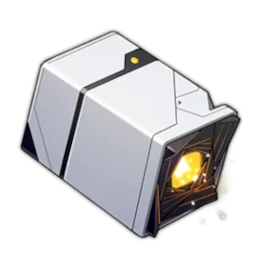
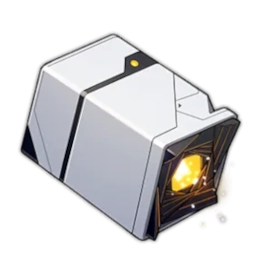
feat: style

Changed region(s): [[0.0625, 0.0938, 0.9375, 0.9688], [0.4688, 0.4688, 0.5625, 0.5312], [0.375, 0.4062, 0.4688, 0.4688]]

diff --git a/src/lib/characterPreview/scoring/substatRollsAggregator.ts b/src/lib/characterPreview/scoring/substatRollsAggregator.ts
@@ -1,6 +1,10 @@
-import { type SubStats } from 'lib/constants/constants'
+import { Stats, type SubStats } from 'lib/constants/constants'
 import { countRelicRolls } from 'lib/characterPreview/summary/statScoringSummaryController'
 import type { PreviewRelics } from 'lib/characterPreview/characterPreviewController'
+
+const DISPLAY_COUNT = 6
+const FALLBACK_STATS: SubStats[] = [Stats.SPD, Stats.CR, Stats.CD, Stats.ATK_P, Stats.HP_P, Stats.DEF_P]
+const FLAT_STATS = new Set<SubStats>([Stats.ATK, Stats.HP, Stats.DEF])
 
 export type AggregatedStatRolls = {
   stat: SubStats
@@ -10,6 +14,13 @@ export type AggregatedStatRolls = {
   total: number
   effective: number
   weight: number
+}
+
+function buildEntry(stat: SubStats, rollMap: Map<SubStats, { high: number; mid: number; low: number }>, weight: number): AggregatedStatRolls {
+  const rolls = rollMap.get(stat) ?? { high: 0, mid: 0, low: 0 }
+  const total = rolls.high + rolls.mid + rolls.low
+  const effective = rolls.high * 1.0 + rolls.mid * 0.9 + rolls.low * 0.8
+  return { stat, ...rolls, total, effective, weight }
 }
 
 export function aggregateSubstatRolls(
@@ -32,15 +43,42 @@ export function aggregateSubstatRolls(
     }
   }
 
+  // Pool 1: mandatory — all stats with positive weight
+  const selected = new Set<SubStats>()
   const results: AggregatedStatRolls[] = []
+
   for (const [stat, weight] of Object.entries(weights)) {
     if (weight <= 0) continue
-    const rolls = rollMap.get(stat as SubStats) ?? { high: 0, mid: 0, low: 0 }
-    const total = rolls.high + rolls.mid + rolls.low
-    const effective = rolls.high * 1.0 + rolls.mid * 0.9 + rolls.low * 0.8
-    results.push({ stat: stat as SubStats, ...rolls, total, effective, weight })
+    selected.add(stat as SubStats)
+    results.push(buildEntry(stat as SubStats, rollMap, weight))
   }
 
-  results.sort((a, b) => b.weight - a.weight || b.effective - a.effective)
-  return results.slice(0, 6)
+  // Pool 2: stats with actual rolls not already in Pool 1
+  if (results.length < DISPLAY_COUNT) {
+    const pool2: AggregatedStatRolls[] = []
+    for (const stat of rollMap.keys()) {
+      if (selected.has(stat)) continue
+      const entry = buildEntry(stat, rollMap, 0)
+      if (entry.total > 0) pool2.push(entry)
+    }
+    pool2.sort((a, b) => b.effective - a.effective)
+    for (const entry of pool2) {
+      if (results.length >= DISPLAY_COUNT) break
+      selected.add(entry.stat)
+      results.push(entry)
+    }
+  }
+
+  // Pool 3: fallback universal stats
+  if (results.length < DISPLAY_COUNT) {
+    for (const stat of FALLBACK_STATS) {
+      if (results.length >= DISPLAY_COUNT) break
+      if (selected.has(stat)) continue
+      selected.add(stat)
+      results.push(buildEntry(stat, rollMap, 0))
+    }
+  }
+
+  results.sort((a, b) => b.effective - a.effective || Number(FLAT_STATS.has(a.stat)) - Number(FLAT_STATS.has(b.stat)))
+  return results.slice(0, DISPLAY_COUNT)
 }

diff --git a/src/lib/characterPreview/scoring/ShowcaseSubstatRolls.tsx b/src/lib/characterPreview/scoring/ShowcaseSubstatRolls.tsx
@@ -67,7 +67,7 @@ const COLOR_ALGORITHMS: Record<string, (seedColor: string) => TierColors> = {
     return {
       high: chroma.oklch(0.67, s * 0.75, hue).css(),
       mid: chroma.oklch(0.78, s * 0.38, hue).css(),
-      low: chroma.oklch(0.93, 0.005, hue).css(),
+      low: chroma.oklch(0.95, 0.005, hue).css(),
     }
   },
   // Ghost — barely there, very subtle tinting
@@ -157,7 +157,7 @@ type VizProps = { entry: AggregatedStatRolls; colors: TierColors; scale: number 
 
 function getScale(maxRolls: number): number {
   const cap = Math.max(Math.min(Math.floor(maxRolls / 3) * 3 + 6, 36), 18)
-  return 216 / cap
+  return (219 - cap) / cap
 }
 
 function EmptyGhost() {
@@ -174,11 +174,7 @@ function TierSegments({ count, color, segWidth }: { count: number; color: string
         <div
           key={i}
           className={classes.tierSeg}
-          style={{
-            width: segWidth,
-            backgroundColor: color,
-            borderRight: i < count - 1 ? SEGMENT_BORDER : 'none',
-          }}
+          style={{ width: segWidth, backgroundColor: color }}
         />
       ))}
     </div>
@@ -265,11 +261,7 @@ function StripeGroup({ count, color, segWidth }: { count: number; color: string;
         <div
           key={i}
           className={classes.stripeSegment}
-          style={{
-            width: segWidth,
-            backgroundColor: color,
-            borderRight: i < count - 1 ? SEGMENT_BORDER : 'none',
-          }}
+          style={{ width: segWidth, backgroundColor: color }}
         />
       ))}
     </div>
@@ -292,7 +284,6 @@ function StripeViz({ entry, colors, scale }: VizProps) {
 
 // ─── Mode definitions ────────────────────────────────────────
 
-const SEGMENT_BORDER = '1px solid rgba(0,0,0,0.50)'
 
 const VIZ_CONFIG: Record<string, { component: React.ComponentType<VizProps> }> = {
   s1: { component: TiersViz },

diff --git a/src/lib/characterPreview/scoring/ShowcaseSubstatRolls.module.css b/src/lib/characterPreview/scoring/ShowcaseSubstatRolls.module.css
@@ -95,7 +95,7 @@
 
 .bar4 { height: 4px; border-radius: 2px; }
 
-.tierGroup { display: flex; height: 4px; }
+.tierGroup { display: flex; gap: 1px; height: 4px; }
 .tierSeg { height: 4px; }
 
 .track > .tierGroup:first-child > .tierSeg:first-child { border-radius: 2px 0 0 2px; }
@@ -139,7 +139,7 @@
   overflow: hidden;
 }
 
-.stripeGroup { display: flex; height: 6px; }
+.stripeGroup { display: flex; gap: 1px; height: 6px; }
 
 .stripeSegment {
   height: 6px;